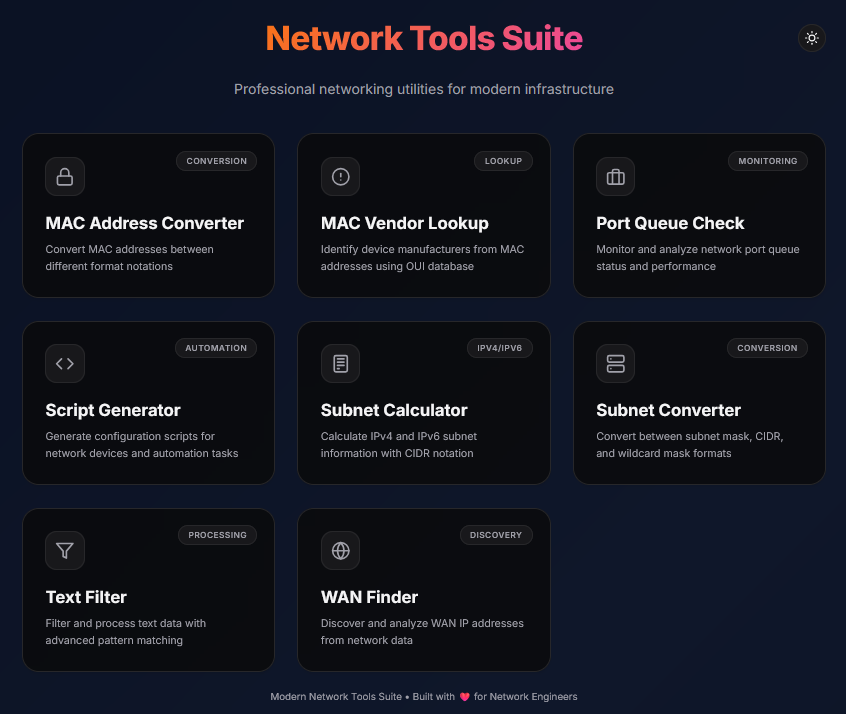
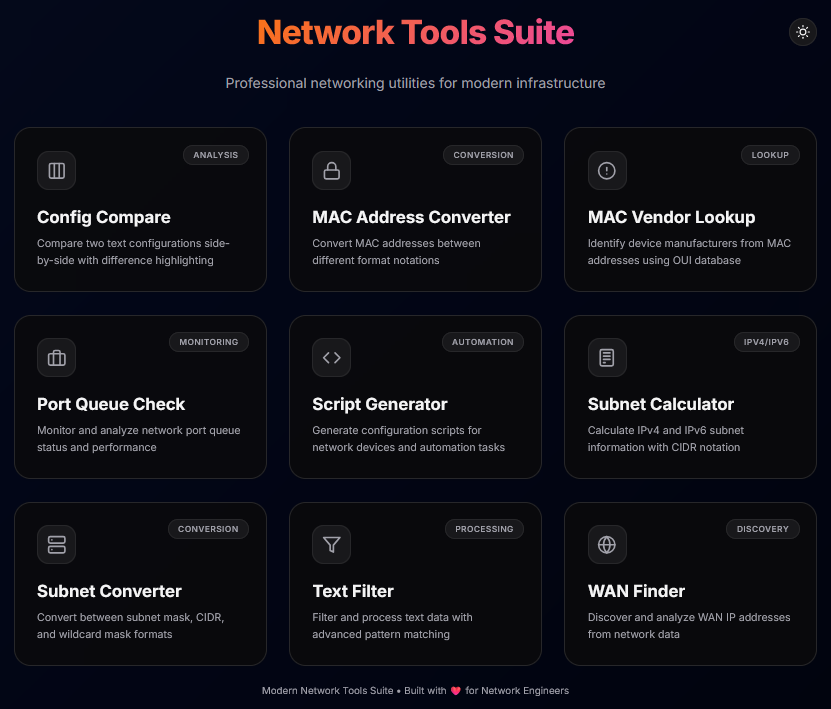
feat: Add Configuration Compare tool with updated README documentation and a new screenshot.

diff --git a/README.md b/README.md
@@ -42,6 +42,12 @@ A professional, modern, and responsive suite of networking utilities designed fo
 8.  **Script Generator**
     *   Generate configuration scripts for network devices.
 
+9.  **Configuration Compare**
+    *   Compare two text configurations side-by-side with intelligent difference highlighting.
+    *   Features advanced navigation (Previous/Next diff buttons with jump-to capability).
+    *   Compact mode to show only differences while retaining context.
+    *   Visual diff highlighting with line numbers and toast notifications.
+
 ## 📦 Project Structure
 
 ```text
@@ -60,7 +66,8 @@ tools/
 ├── wan.html
 ├── text_filter.html
 ├── script.html
-└── portqueue.html
+├── portqueue.html
+└── compare.html
 ```
 
 ## 🚀 Deployment
